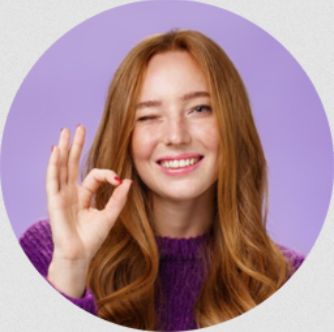
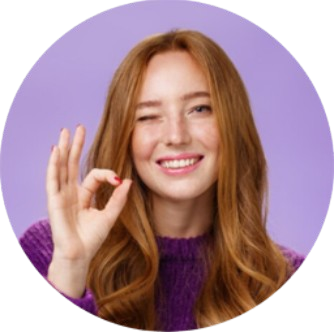
Atualizado html, css e adicionado a imagem do usuario

Changed region(s): [[0.0, 0.5422, 1.0, 1.0], [0.5988, 0.0, 1.0, 0.4518], [0.0, 0.0, 0.4192, 0.4217]]

diff --git a/CSS/style.css b/CSS/style.css
@@ -368,3 +368,224 @@ section .photos img{
 .section-secondary h3, p, span{
     align-self: flex-start;
 }
+
+section .textos-section-three{
+    display: flex;
+    justify-content: center;
+    flex-direction: column;
+    align-items: center;
+ 
+    margin-top: 12%;
+ }
+ section .textos-section-three h2{
+     font-family: 'Lobster', sans-serif, serif;
+     font-size: 36px;
+     font-weight: 400;
+     line-height: 45px;
+     color: var(--cor-titulo);
+    
+     width: 315px;
+     height: 45px;
+  
+ 
+ 
+ }
+ section .textos-section-three p{
+     font-family: 'Poppins', sans-serif, serif;
+     font-size: 20px;
+     font-style: italic;
+     font-weight: 400;
+     color: var(--cor-NomeSegundoNav);
+ 
+     max-width: 1028px;
+     
+     margin: 0 25%;
+     text-align: center;
+ }
+ 
+ 
+ section .photo-user{
+     display: flex;
+     justify-content: space-between;
+     
+     margin-top: 40px;
+ }
+ 
+ section .avaliacao-user img{
+    
+     width: 232px;
+     height: 232px;
+     border: 4px solid var(--cor-BotaoSegundoNav);
+     border-radius: 50%;
+ }
+ section .avaliacao-user p{
+     text-align: center;
+     font-family: 'Poppins', sans-serif, serif;
+     font-size: 20px;
+     font-style: italic;
+     font-weight: 700;
+     line-height: 30px;
+     color: var(--cor-NomeSegundoNav);
+ 
+ }
+ section .avaliacao-user span{
+     font-family: 'Poppins', sans-serif, serif;
+     font-size: 20px;
+     font-style: italic;
+     font-weight: 400;
+     line-height: 30px;
+ }
+ 
+ section .photo-user .setas{
+     width: 36px;
+     height: 52px;
+ 
+     background-color: var(--cor-InputSegundoNav);
+     border-radius: 8px;
+ 
+     font-family: 'Puritan', sans-serif, serif;
+     font-size: 36px;
+     font-weight: 700;
+     line-height: 40.5px;
+    color: #FFFFFF;
+ 
+    display: flex;
+    justify-content: center;
+    align-items: center;
+     cursor: pointer;
+    margin: 30px 200px;
+ }
+ 
+ footer{
+     background-color: var(--cor-spanpais);
+     
+     width: 100%;
+     height: 330px;
+     
+ 
+     display: flex;
+     justify-content: space-between;
+ 
+ }
+ .retangulo-footer{
+ 
+     background-color: var(--cor-titulo);
+     width: 100%;
+     height: 79px;
+     
+ 
+ }
+ footer img{
+     width: 35px;
+     height: 35px;
+    
+ }
+ 
+ footer .primeira-informacao-footer h2{
+     width: 233px;
+     height: 45px;
+ 
+     font-family: 'Lobster', sans-serif, serif;
+     font-size: 36px;
+     font-weight: 400;
+     line-height: 45px;
+     color: var(--cor-InputSegundoNav);
+ }
+ 
+ footer .primeira-informacao-footer span{
+     width: 255px;
+     height: 24px;
+ 
+     font-family: 'Poppins', sans-serif, serif;
+     font-size: 16px;
+     font-weight: 700;
+     line-height: 24px;
+     color: var(--cor-InputSegundoNav);
+ }
+ 
+ footer .primeira-informacao-footer p{
+     width: 333px;
+     height: 24px;
+     
+     font-family: 'Poppins', sans-serif, serif;
+     font-size: 16px;
+     font-weight: 400;
+     line-height: 24px;
+     color: var(--cor-InputSegundoNav);
+     
+ }
+ footer .primeira-informacao-footer .direitos-reservados{
+     width: 337px;
+     height: 48px;
+ 
+     font-family: 'Poppins', sans-serif, serif;
+     font-size: 16px;
+     font-weight: 400;
+     line-height: 24px;
+ 
+ }
+ footer .segunda-informacao-footer h2{
+     width: 201px;
+     height: 30px;
+    
+ 
+     font-family: 'Poppins', sans-serif, serif;
+     font-size: 20px;
+     font-weight: 700;
+     line-height: 30px;
+     color: var(--cor-InputSegundoNav);
+ }
+ footer .segunda-informacao-footer p{
+     font-family: 'Poppins', sans-serif, serif;
+     font-size: 14px;
+     font-weight: 400;
+     line-height: 21px;
+     color: var(--cor-InputSegundoNav);
+ 
+ }
+ footer .input-link-footer h2{
+     font-family: 'Poppins', sans-serif, serif;
+     font-size: 20px;
+     font-weight: 700;
+     line-height: 30px;
+     color: var(--cor-InputSegundoNav);   
+ }
+ footer .input-link-footer input{
+     width: 309px;
+     height: 37px;
+ 
+     box-shadow: 0px 4px 4px 0px #00000040;
+ 
+     border: none;
+     
+ }
+ footer .input-link-footer input:focus{
+     box-shadow: 0 0 0 0;
+     outline: 0;
+ }
+ footer .input-link-footer input::placeholder{
+     width: 133px;
+     height: 21px;
+ 
+     font-family: 'Poppins', sans-serif, serif;
+     font-size: 14px;
+     font-weight: 400;
+     line-height: 21px;
+     color: var(--cor-InputSegundoNav);
+ }
+ 
+ footer .input-link-footer button{
+     width: 81px;
+     height: 37px;
+     
+     border-radius: 5px;
+     background-color: var(--cor-BotaoSegundoNav);
+     border: none;
+     color: #FFFFFF;
+ 
+     font-family: 'Poppins', sans-serif, serif;
+     font-size: 16px;
+     font-weight: 700;
+     line-height: 24px;
+     
+ }

diff --git a/index.html b/index.html
@@ -158,6 +158,66 @@
                 </div>
             </div>
         </section>
+
+        
+        <section class="section-three">
+            <div class="textos-section-three">
+                <h2>Avaliações dos Clientes</h2>
+                <p>"Eligendi, unde neque libero, ab officia laboriosam alias consequuntur laborum eveniet ipsa ex! Rerum architecto dolorum totam quae, magni minima at vero quas voluptas laboriosam autem accusamus nulla eaque officia ipsum distinctio, et inventore facilis vitae consequatur quod omnis voluptates ipsa? Libero inventore dolores necessitatibus omnis voluptate. Sit, officia accusantium consequatur commodi eum deleniti et dolores deserunt accusamus cupiditate animi recusandae assumenda. Similique, eveniet."</p>
+            </div>
+
+            <div class="photo-user">
+
+
+                    <span class="setas"> < </span>
+                    
+                
+
+                <div class="avaliacao-user">
+                    <img src="/img/foto-usuario.png" alt="">
+                    <p>Patrícia <span class="span-jornalista">, Jornalista</span></p>
+                </div>
+                <span class="setas"> > </span>
+            </div>
+        </section>
+
+        <footer>
+            <div class="primeira-informacao-footer">
+                <h2>Buenas Viagens!</h2>
+                <p><span>Buenas Viagens & Turismo S.A.</span></p>
+                <p>Avenida da Boa Vista, 1234 Porto, Portugal</p>
+                <p class="direitos-reservados">Buenas Viagens & Turismo S.A. © Todos os direitos reservados 2024</p>
+            </div>
+            
+            <div class="segunda-informacao-footer">
+                <h2> NOSSOS PARCEIROS</h2>
+                <p>consectetur adipisicing</p>
+                <p>Pariatur autem harum</p>
+                <p>distinctio laudantium ducimus</p>
+                <p>temporibus vel magnam</p>
+                <p>commodi sed quaerat</p>
+                <p>Quas perspiciatis blanditiis</p>
+                <p>aspernatur</p>
+            </div>
+
+            <div class="input-link-footer">
+                <h2>ASSINE A NOSSA NEWSLETTER</h2>
+                <div class="input-footer">
+                    <input type="text" name="" id="" placeholder="Informe seu E-mail">
+                    <button>Enviar</button>
+                </div>
+                <hr>
+                <div class="links-footer">
+                    <h2>SIGA NOSSAS REDES SOCIAIS</h2>
+                    <img src="/img/facebook-logo.png" alt="">
+                    <img src="/img/instagram-logo.png" alt="">
+                    <img src="/img/x-logo.png" alt="">
+                </div>
+            </div>
+            
+          
+        </footer>
+        <div class="retangulo-footer"></div>
     </div>
 </body>
 </html>
